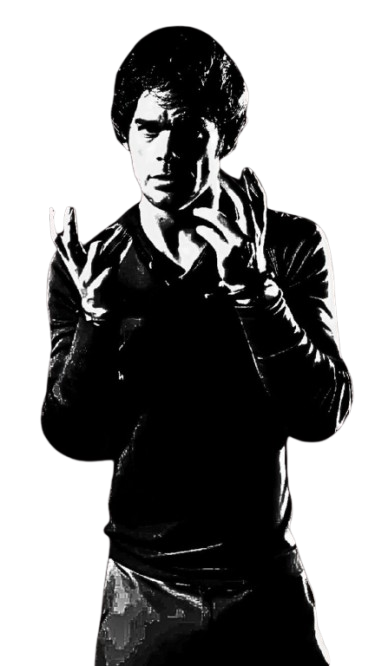
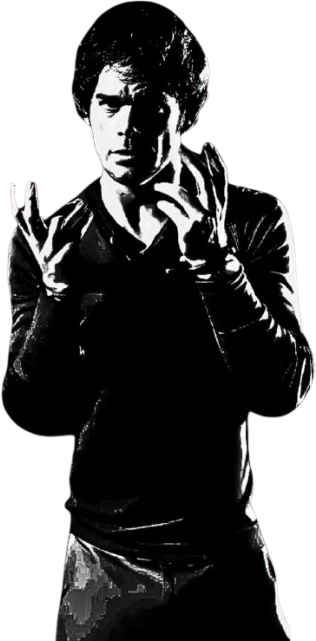
Update CSS styles for ghost elements and figure alignment

diff --git a/src/components/Code.css b/src/components/Code.css
@@ -30,9 +30,9 @@
 @media (prefers-reduced-motion: reduce) {
   #code li.broken s, #code li.broken small { transition: none }
 }
-#code .ghost { grid-column: 1 / -1; font-size: 1.05rem; color: var(--ash); max-width: 34em; margin: -2vh 0 6vh }
+#code .ghost { grid-column: 1 / -1; font-size: 1.05rem; color: var(--ash); max-width: 34em; margin: 0 0 6vh }
 #code .ghost b { color: var(--bone); font-weight: 400 }
-#code figure { align-self: end; margin: 0 }
+#code figure { align-self: start; margin: 0 }
 #code figure img { width: min(100%, 460px); margin-inline: auto; filter: drop-shadow(0 0 40px rgba(180,13,22,.25)) }
 @media (max-width: 820px) {
   #code .frame { grid-template-columns: 1fr }
